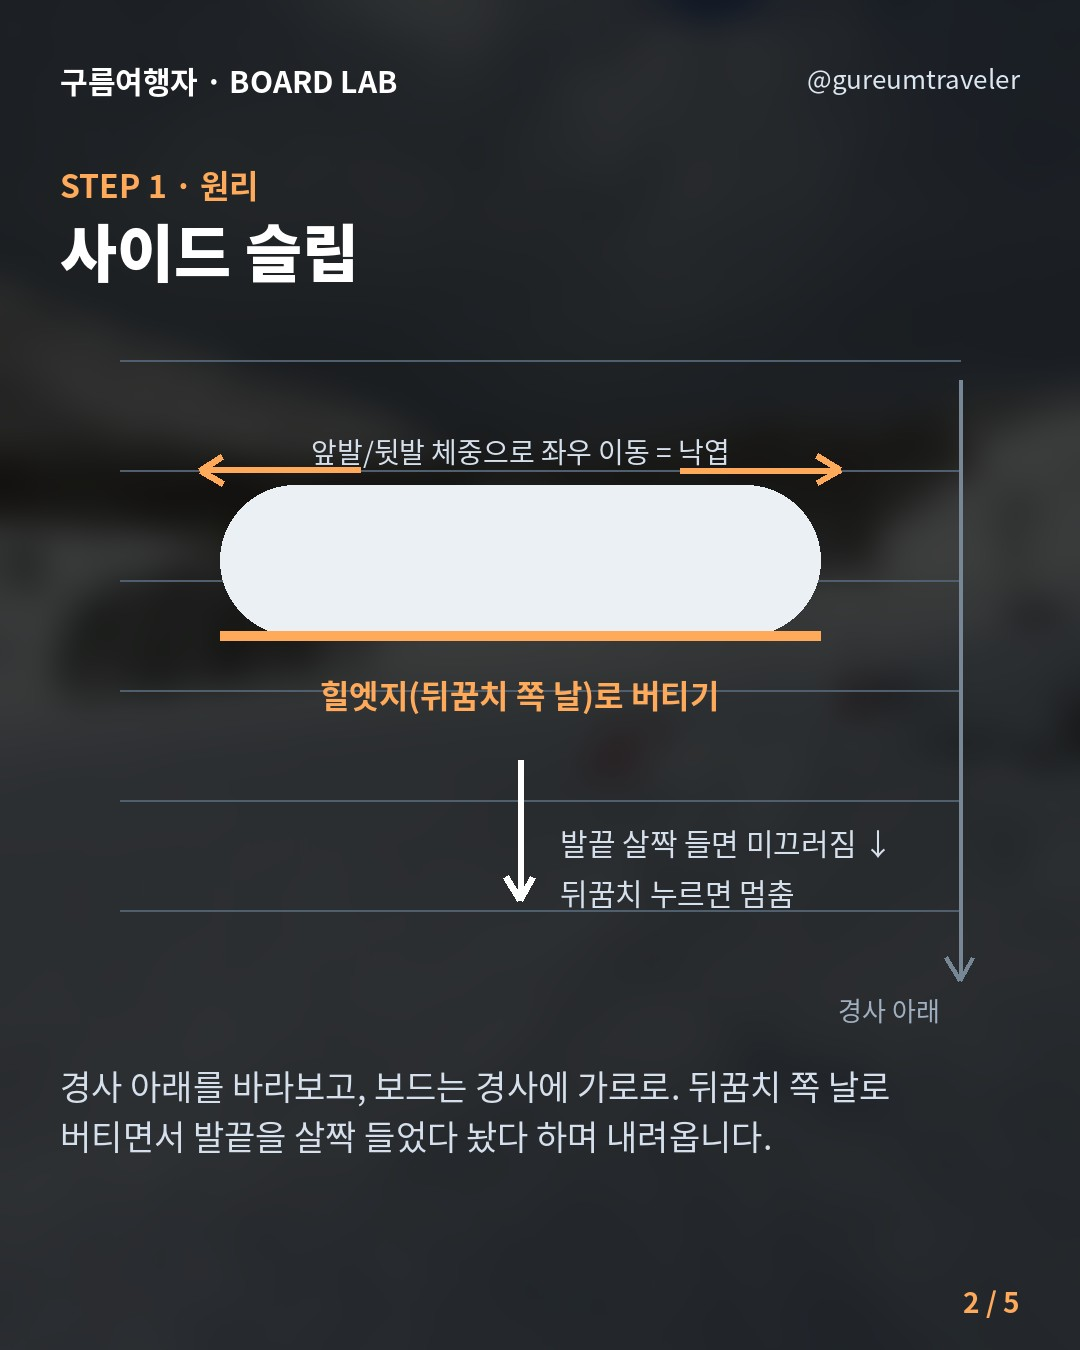
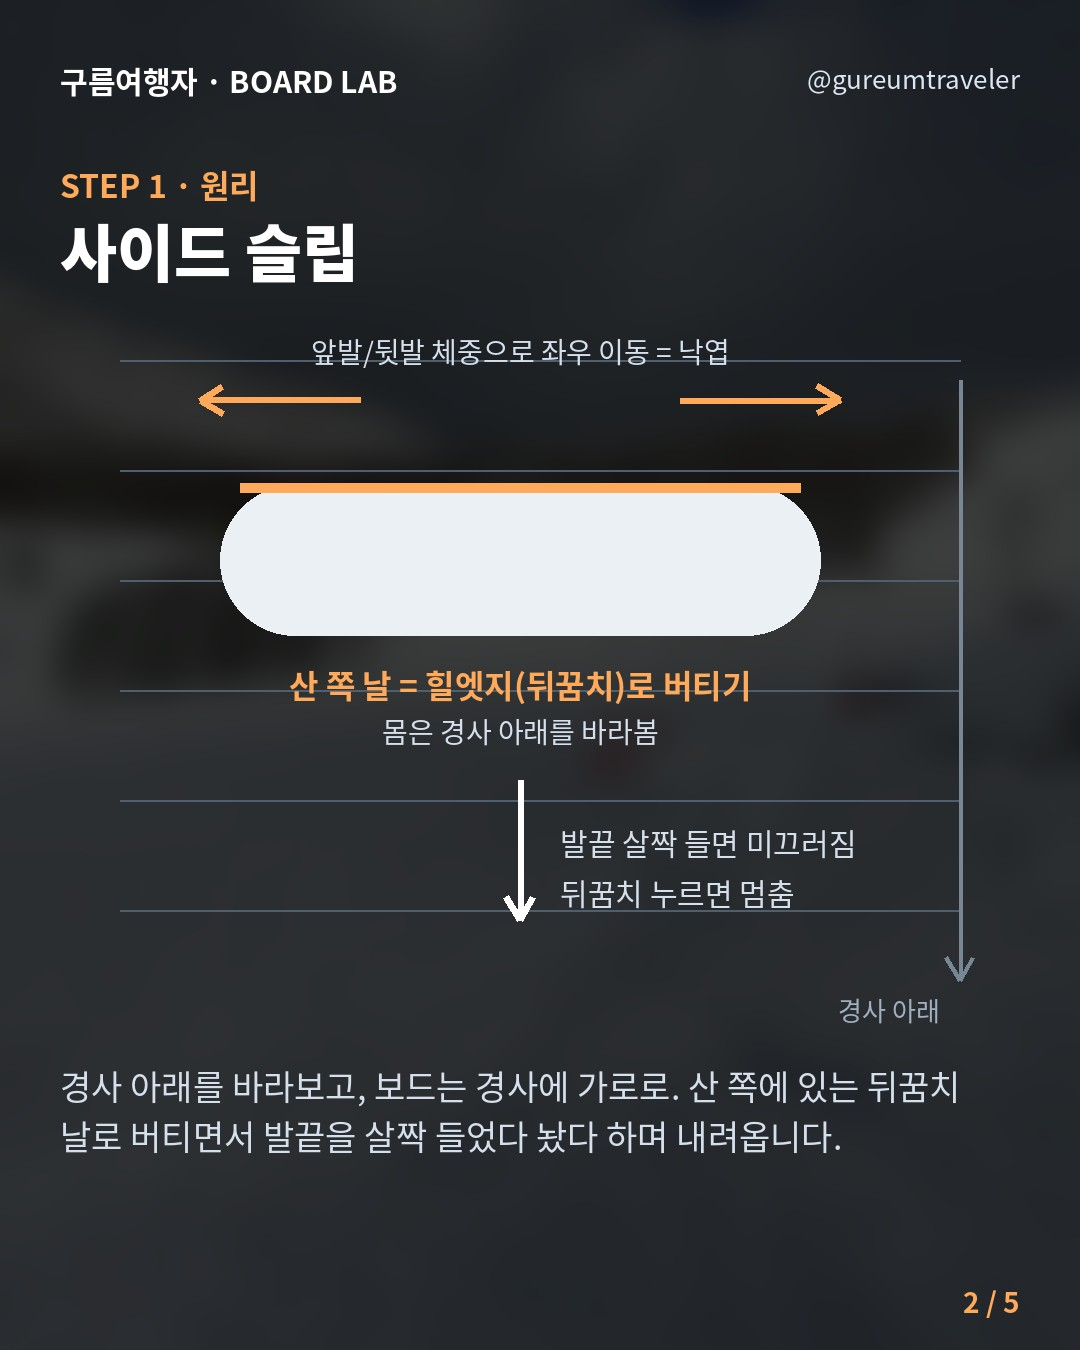
Series board EP03: fix heel-edge side and cover photo
Claude-Session: https://claude.ai/code/session_01Gd1458ZgBtp2eX1M7oyb7f

diff --git a/tools/build_series.py b/tools/build_series.py
@@ -215,19 +215,19 @@ def diag_stance_board(d, acc):
     d.text((540, 975), '덕 스탠스 예: +15° / -9°', font=font('R', 28), fill=SUB, anchor='ma')
 
 def diag_sideslip(d, acc):
-    # slope lines + board across the fall line
     for i in range(6):
         d.line((120, 360 + i * 110, 960, 360 + i * 110), fill=(80, 95, 110), width=2)
     arrow(d, 960, 380, 960, 980, (120, 135, 150), w=4)
     d.text((940, 990), '경사 아래', font=font('R', 26), fill=MUTED, anchor='ra')
+    d.text((520, 330), '앞발/뒷발 체중으로 좌우 이동 = 낙엽', font=font('R', 28), fill=SUB, anchor='ma')
+    arrow(d, 360, 400, 200, 400, acc); arrow(d, 680, 400, 840, 400, acc)
     board_shape(d, 520, 560, L=600, w=150)
-    d.line((220, 635, 820, 635), fill=acc, width=10)
-    d.text((520, 670), '힐엣지(뒤꿈치 쪽 날)로 버티기', font=font('BD', 32), fill=acc, anchor='ma')
-    arrow(d, 520, 760, 520, 900, WHITE)
-    d.text((560, 820), '발끝 살짝 들면 미끄러짐 ↓', font=font('R', 30), fill=SUB)
+    d.line((240, 487, 800, 487), fill=acc, width=10)
+    d.text((520, 660), '산 쪽 날 = 힐엣지(뒤꿈치)로 버티기', font=font('BD', 32), fill=acc, anchor='ma')
+    d.text((520, 710), '몸은 경사 아래를 바라봄', font=font('R', 28), fill=SUB, anchor='ma')
+    arrow(d, 520, 780, 520, 920, WHITE)
+    d.text((560, 820), '발끝 살짝 들면 미끄러짐', font=font('R', 30), fill=SUB)
     d.text((560, 870), '뒤꿈치 누르면 멈춤', font=font('R', 30), fill=SUB)
-    arrow(d, 360, 470, 200, 470, acc); arrow(d, 680, 470, 840, 470, acc)
-    d.text((520, 430), '앞발/뒷발 체중으로 좌우 이동 = 낙엽', font=font('R', 28), fill=SUB, anchor='ma')
 
 # ---------- series definitions ----------
 SKI = {'label': '구름여행자 · SKI LAB', 'series': '초보 스키어에서 스키 매니아로', 'acc': SKI_ACC}
@@ -334,9 +334,9 @@ ep('2026-11-21', SKI, 3, [
 
 # BOARD EP03 --------------------------------------------------------
 ep('2026-11-20', BRD, 3, [
-    lambda: s_cover(BRD, 3, '힐사이드 낙엽', '보드 첫 번째 생존 기술 — 옆으로 미끄러져 내려오기', 'DSCN1251-deviate.jpg'),
+    lambda: s_cover(BRD, 3, '힐사이드 낙엽', '보드 첫 번째 생존 기술 — 옆으로 미끄러져 내려오기', 'DSCN1296-deviate (1).jpg'),
     lambda: s_diagram(BRD, '사이드 슬립', diag_sideslip,
-        '경사 아래를 바라보고, 보드는 경사에 가로로. 뒤꿈치 쪽 날로 버티면서 발끝을 살짝 들었다 놨다 하며 내려옵니다.',
+        '경사 아래를 바라보고, 보드는 경사에 가로로. 산 쪽에 있는 뒤꿈치 날로 버티면서 발끝을 살짝 들었다 놨다 하며 내려옵니다.',
         'DSCN1259-deviate.jpg', kicker='STEP 1 · 원리'),
     lambda: s_list(BRD, '자세 포인트', [
         ('01', '의자에 앉듯이', '무릎 굽히고 엉덩이는 낮게, 상체는 세우기. 허리만 숙이면 균형이 무너집니다.'),
